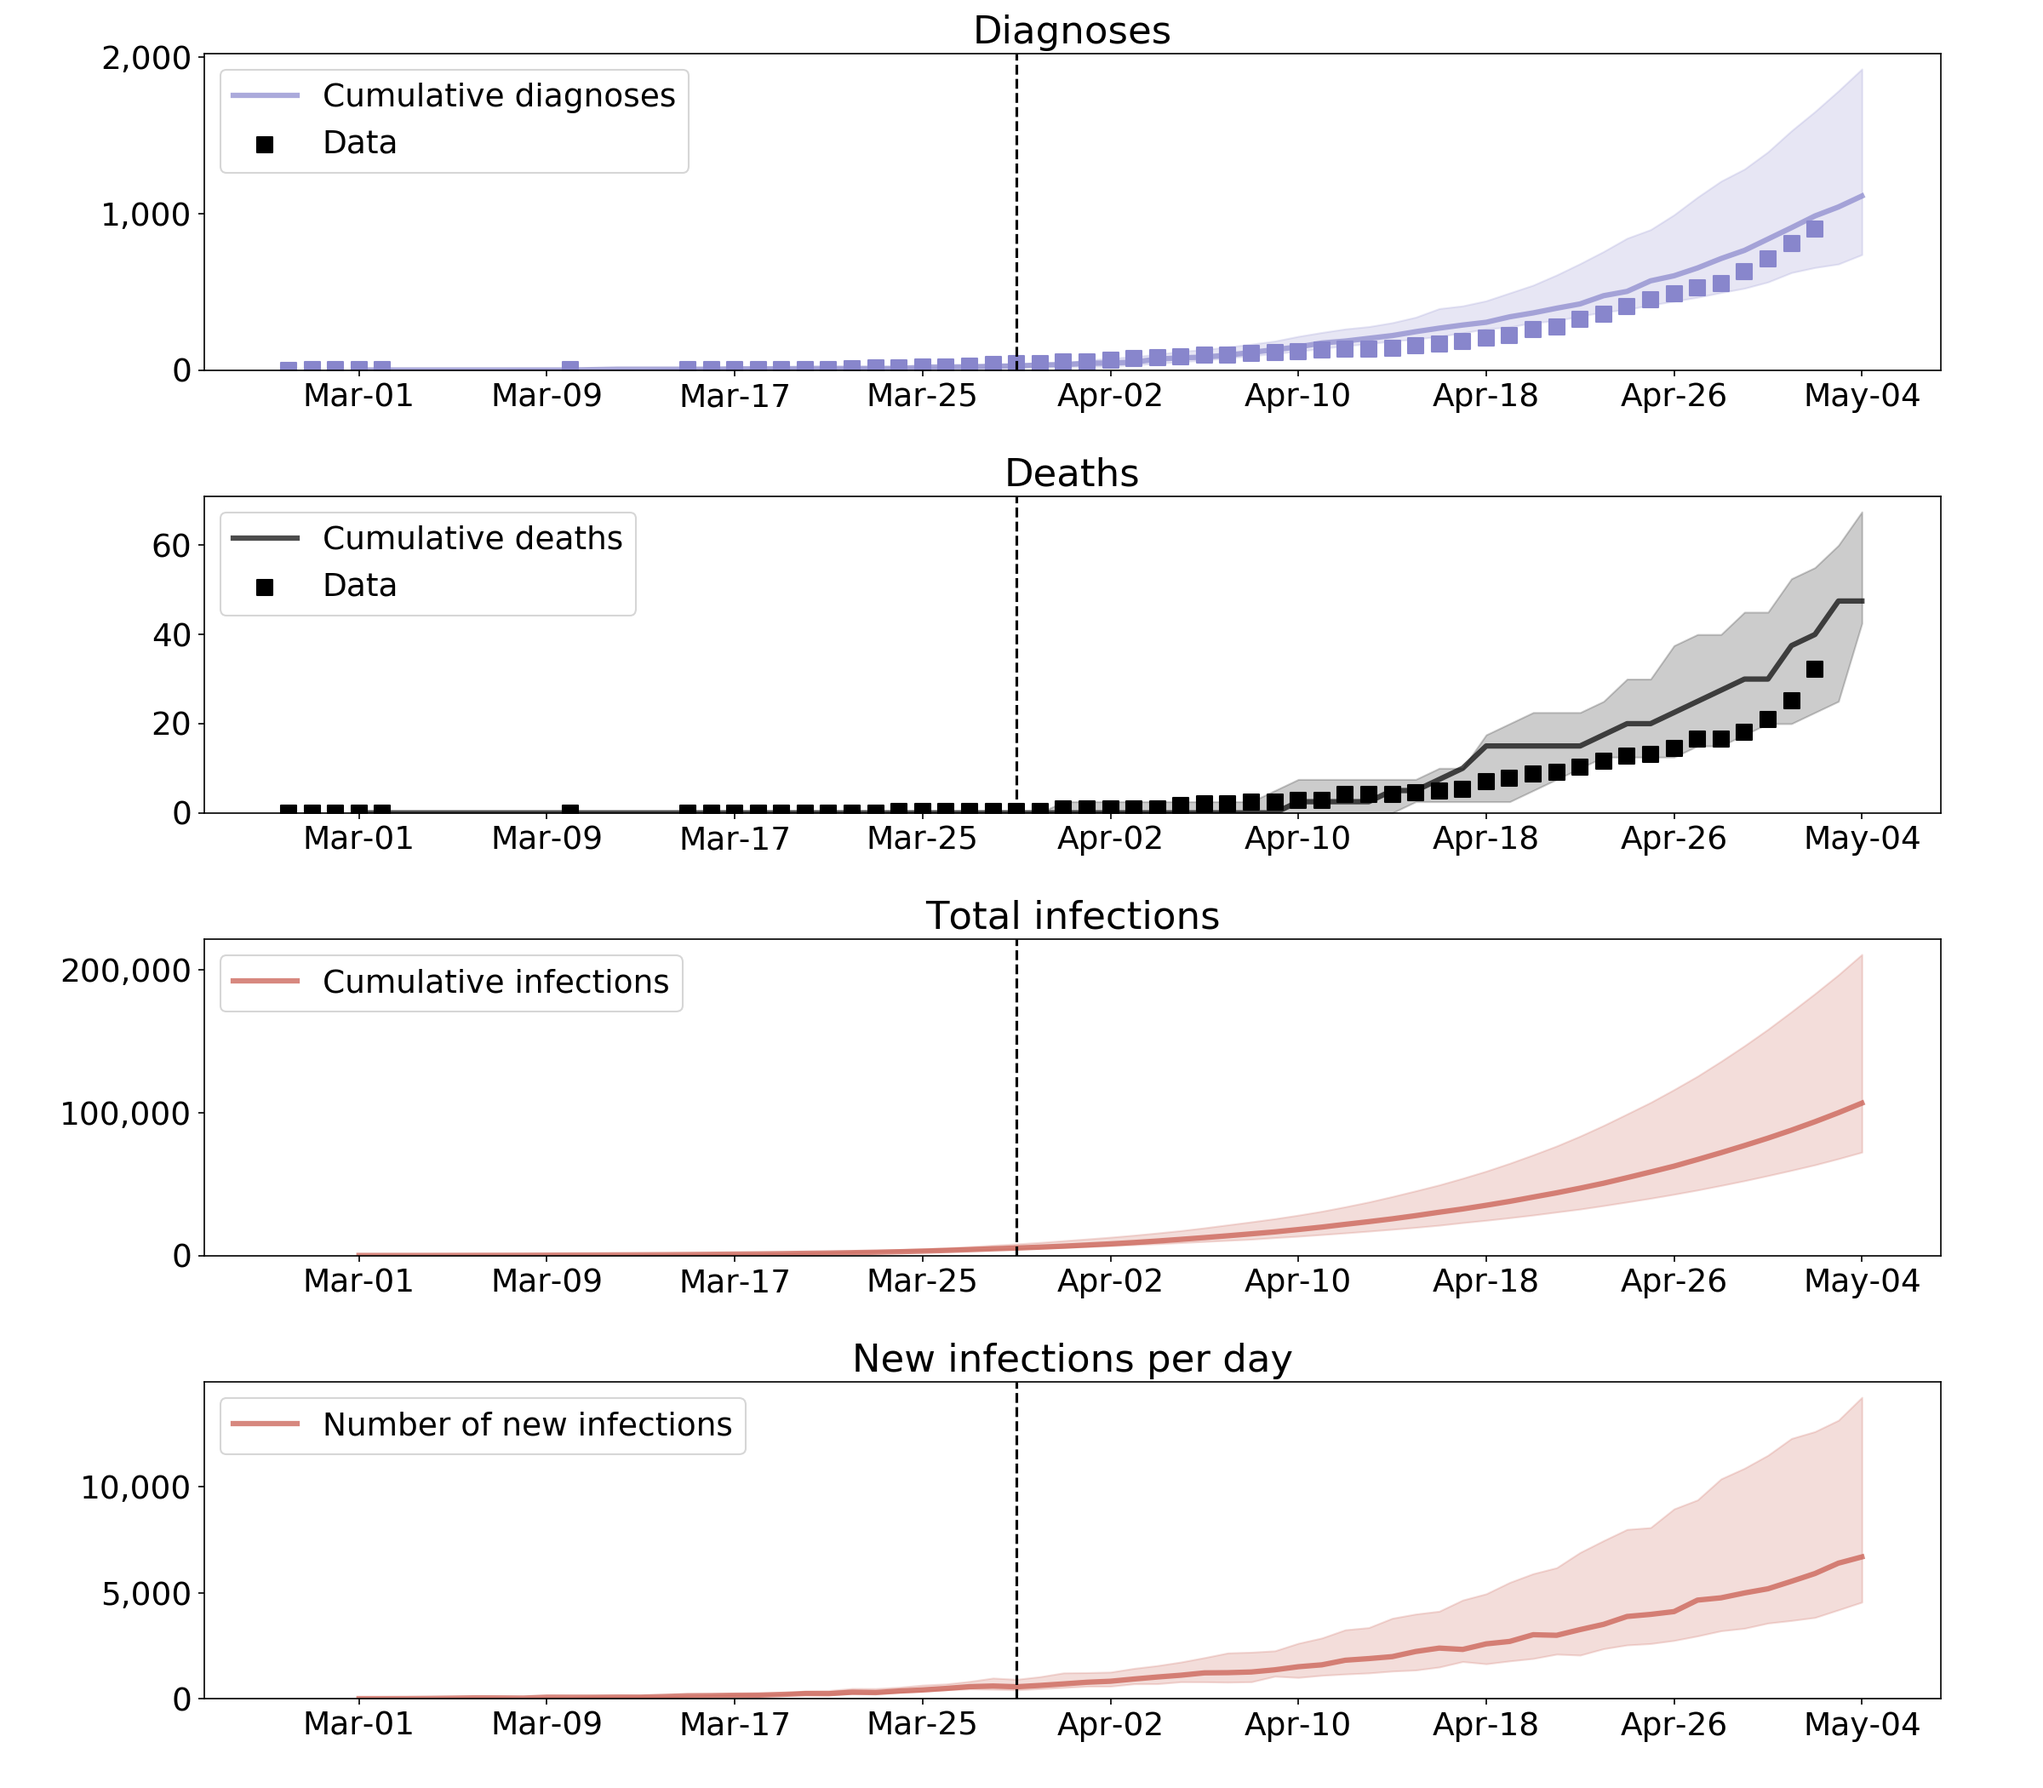
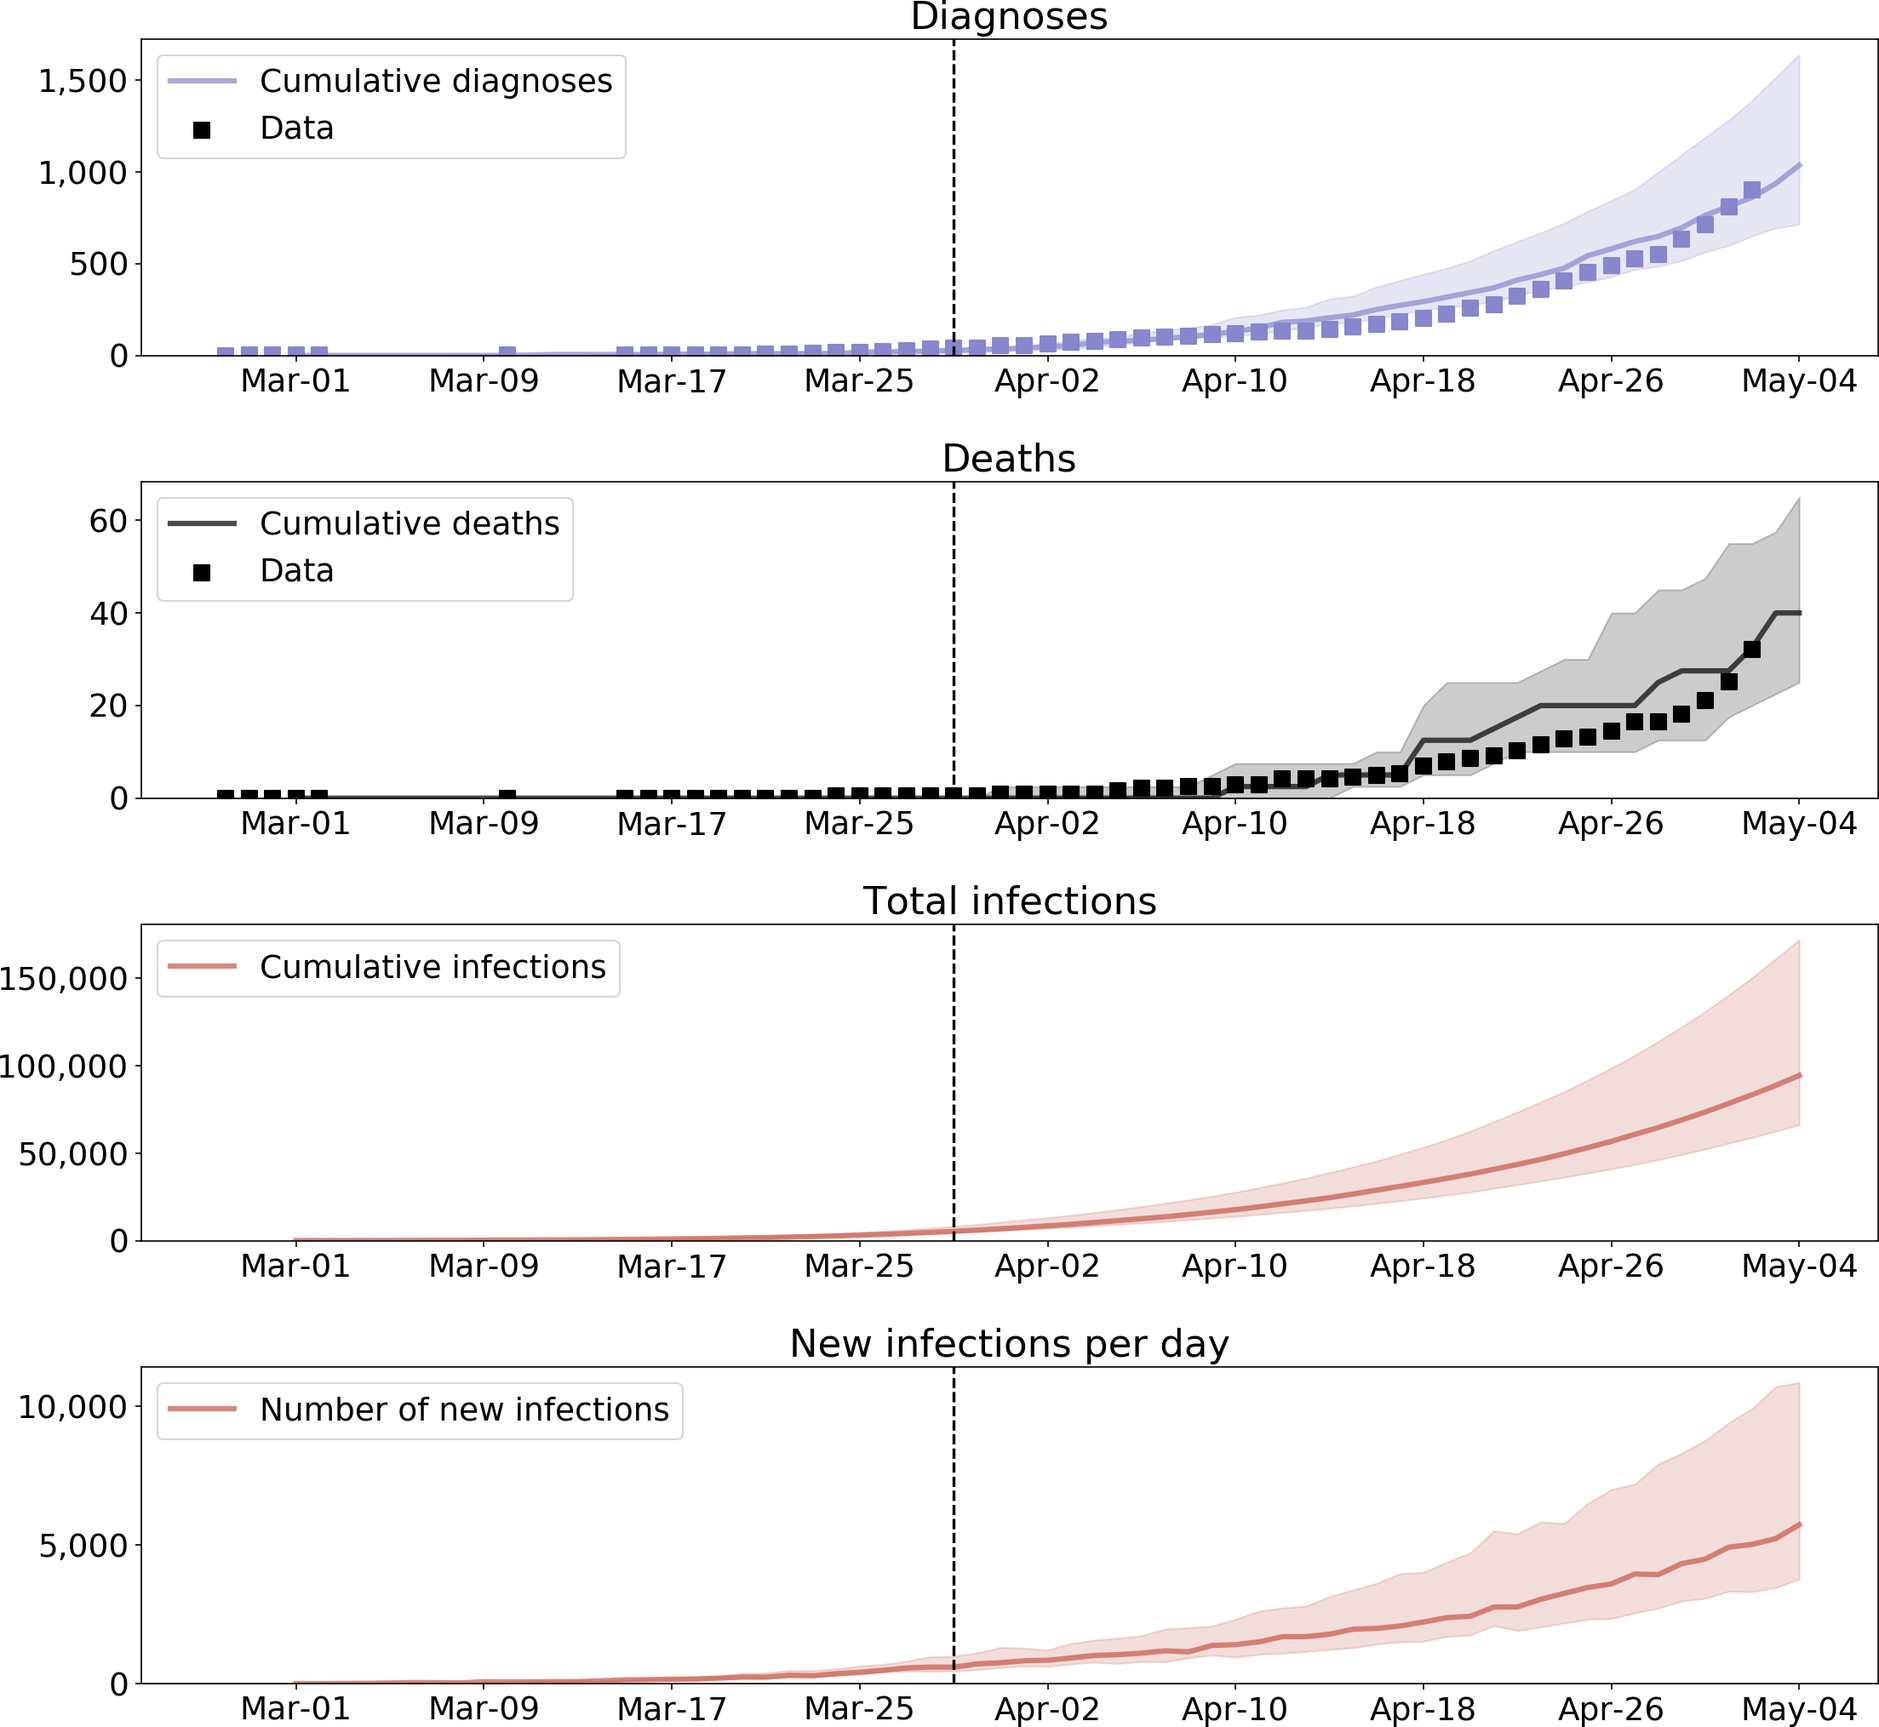
new calibration

diff --git a/calibration_nigeria_may03.py b/calibration_nigeria_may03.py
@@ -28,9 +28,15 @@ symp_prob = 0.004
 beta = 0.0125
 which = ['lockdown', 'nolockdown'][0]
 if which == 'lockdown':
-    beta_change = 0.5
+    h_beta_change = 1.2 # or 1.0
+    s_beta_change = 0.2 # or 0.5
+    w_beta_change = 0.5 # or 0.5
+    c_beta_change = 0.8 # or 0.5
 elif which == 'nolockdown':
-    beta_change = 1.0
+    h_beta_change = 1.0
+    s_beta_change = 1.0
+    w_beta_change = 1.0
+    c_beta_change = 1.0
 
 
 # Other parameters
@@ -43,7 +49,10 @@ pars = dict(
     pop_infected = pop_infected,
     interventions = [
         cv.test_prob(symp_prob=symp_prob, asymp_prob=0, start_day=0, do_plot=False),
-        cv.change_beta(days=['2020-03-29'], changes=[beta_change], layers=['s','w','c'], do_plot=beta_change<1.0),
+        cv.change_beta(days=['2020-03-29'], changes=[h_beta_change], layers=['h'], do_plot=h_beta_change<1.0),
+        cv.change_beta(days=['2020-03-29'], changes=[s_beta_change], layers=['s'], do_plot=s_beta_change<1.0),
+        cv.change_beta(days=['2020-03-29'], changes=[w_beta_change], layers=['w'], do_plot=w_beta_change<1.0),
+        cv.change_beta(days=['2020-03-29'], changes=[c_beta_change], layers=['c'], do_plot=c_beta_change<1.0),
         ],
     rand_seed = 1,
     beta = beta,
